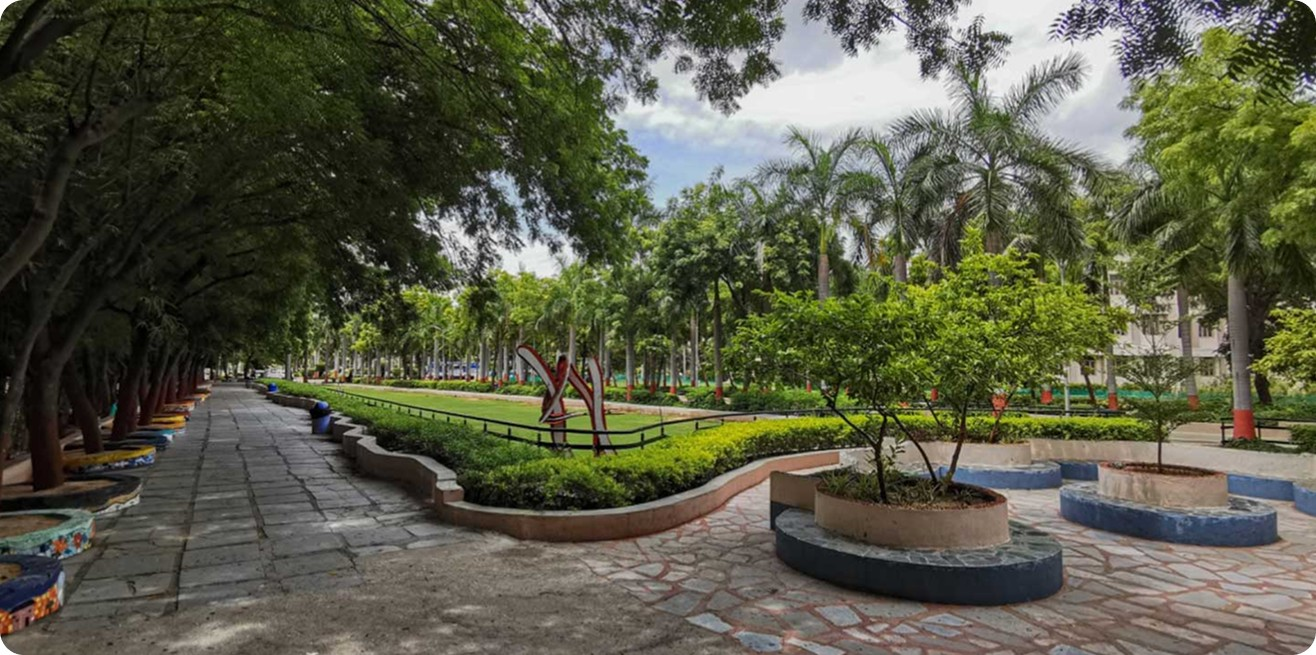
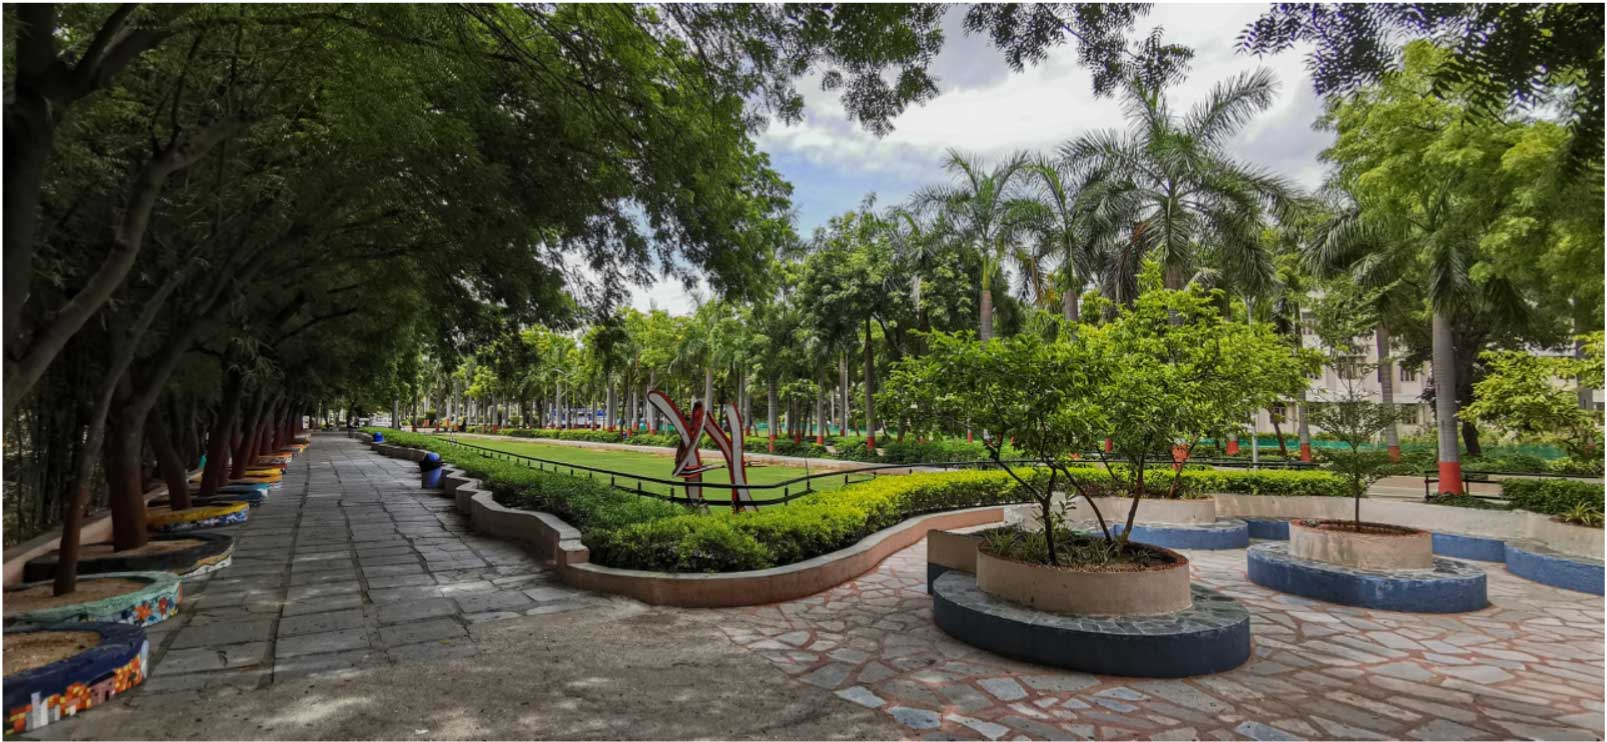
Images Added

diff --git a/index.html b/index.html
@@ -101,24 +101,24 @@
             <div class="pu-stats-card">
                 <!-- Campus Image -->
                 <div class="pu-stats-image" id="campusImage">
-                    <img src="./assets/images/campus-1.jpg" alt="Green campus areas and gardens" class="img-fluid">
+                    <img src="./assets/images/campus-1.png" alt="Green campus areas and gardens" class="img-fluid">
                 </div>
 
                 <!-- Statistics Cards -->
                 <div class="pu-stats-grid">
                     <div class="pu-stat-item stat-pink flex-center-column active"
-                        data-image="./assets/images/campus-1.jpg" data-alt="Green campus areas and gardens">
+                        data-image="./assets/images/campus-1.png" data-alt="Green campus areas and gardens">
                         <div class="stat-number">200+</div>
                         <div class="stat-label">Acres of Green<br>Campus</div>
                     </div>
 
-                    <div class="pu-stat-item stat-yellow flex-center-column" data-image="./assets/images/1jpg-.jpg"
+                    <div class="pu-stat-item stat-yellow flex-center-column" data-image="./assets/images/campus-34.jpg"
                         data-alt="Campus residential buildings">
                         <div class="stat-number">27,000+</div>
                         <div class="stat-label">On-Campus<br>Residents</div>
                     </div>
 
-                    <div class="pu-stat-item stat-blue flex-center-column" data-image="./assets/images/2-.jpg"
+                    <div class="pu-stat-item stat-blue flex-center-column" data-image="./assets/images/campus-3.jpg"
                         data-alt="International students on campus">
                         <div class="stat-number">4,500+</div>
                         <div class="stat-label">International<br>Students</div>
@@ -170,7 +170,7 @@
                 </div>
 
                 <!-- Security Card -->
-                <div class="pu-glance-card card-medium" style="background-image: url('./assets/images/security.jpg')">
+                <div class="pu-glance-card card-medium" style="background-image: url('./assets/images/glance-3.jpg')">
                     <div class="card-overlay overlay-purple"></div>
                     <div class="card-content">
                         <div class="card-number">24x7</div>

diff --git a/assets/scripts/main.js b/assets/scripts/main.js
@@ -1,7 +1,7 @@
 document.addEventListener('DOMContentLoaded', function () {
   const statsCards = document.querySelectorAll('.pu-stat-item');
   const campusImage = document.querySelector('#campusImage img');
-  const defaultImage = './assets/images/campus-1.jpg'; // Use your actual default image path
+  const defaultImage = './assets/images/campus-1.png'; 
   const defaultAlt = 'Green campus areas and gardens';
 
   statsCards.forEach(card => {
